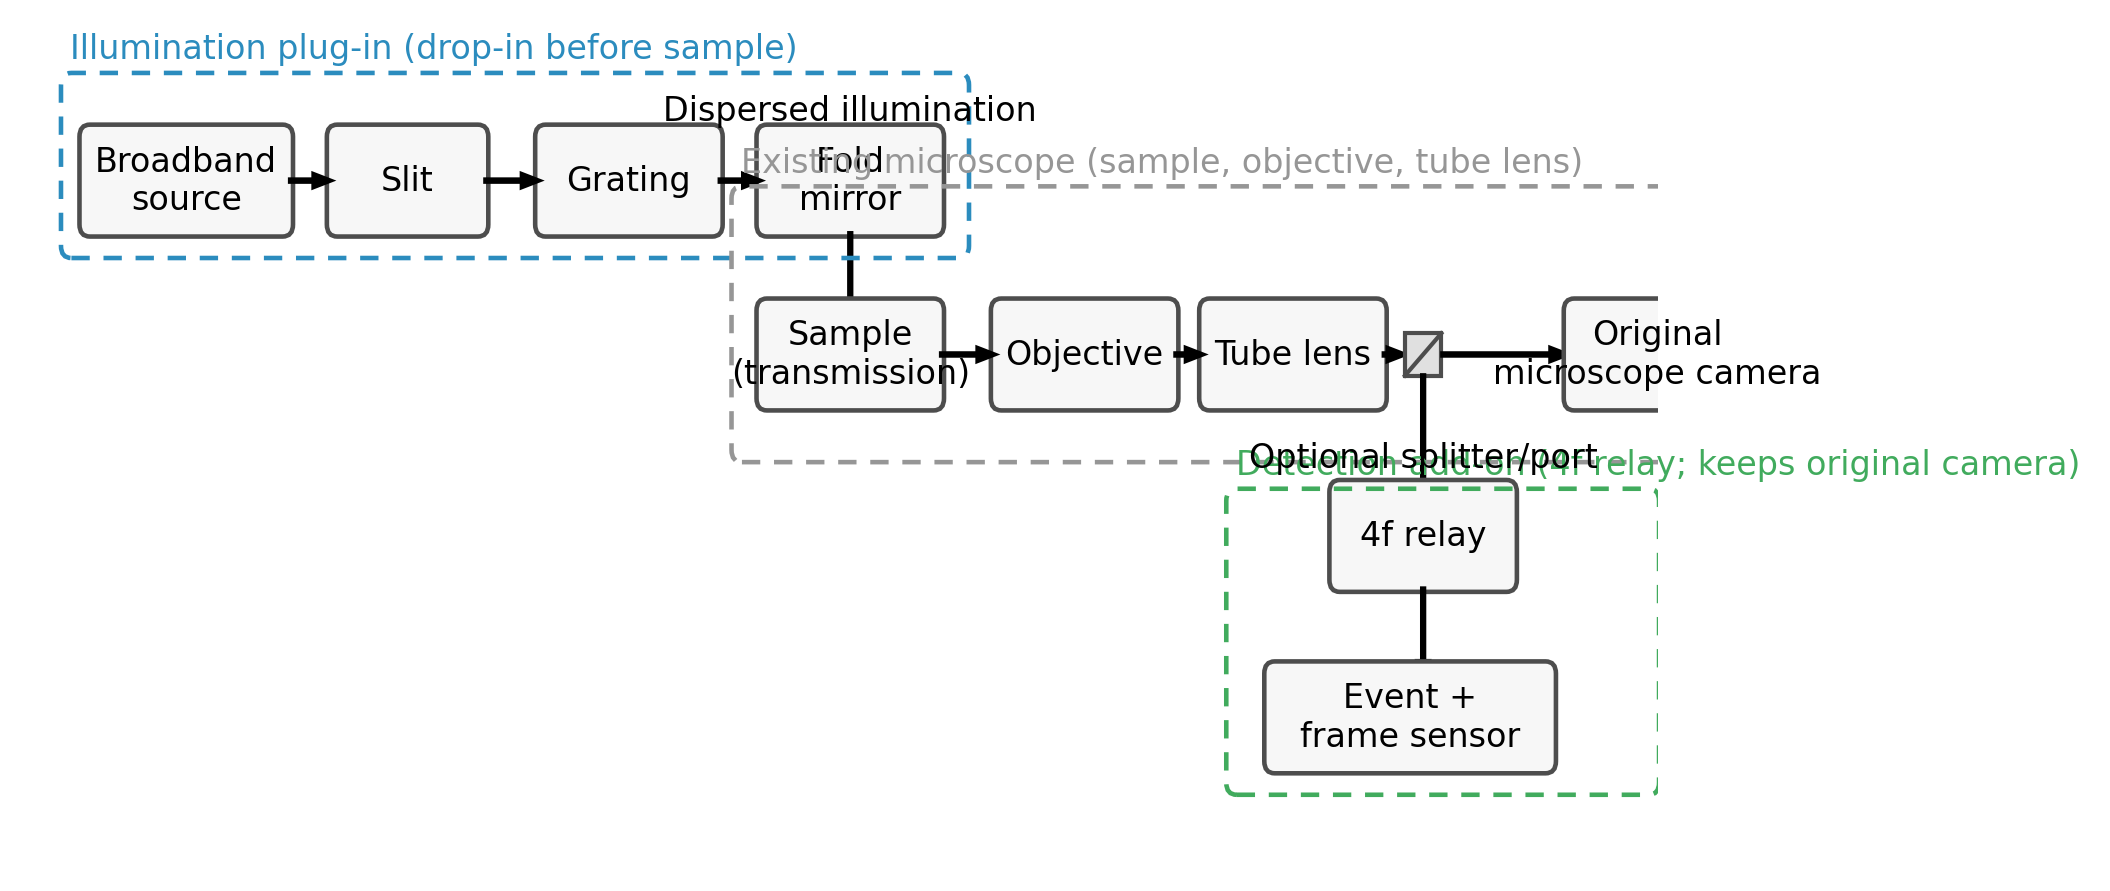
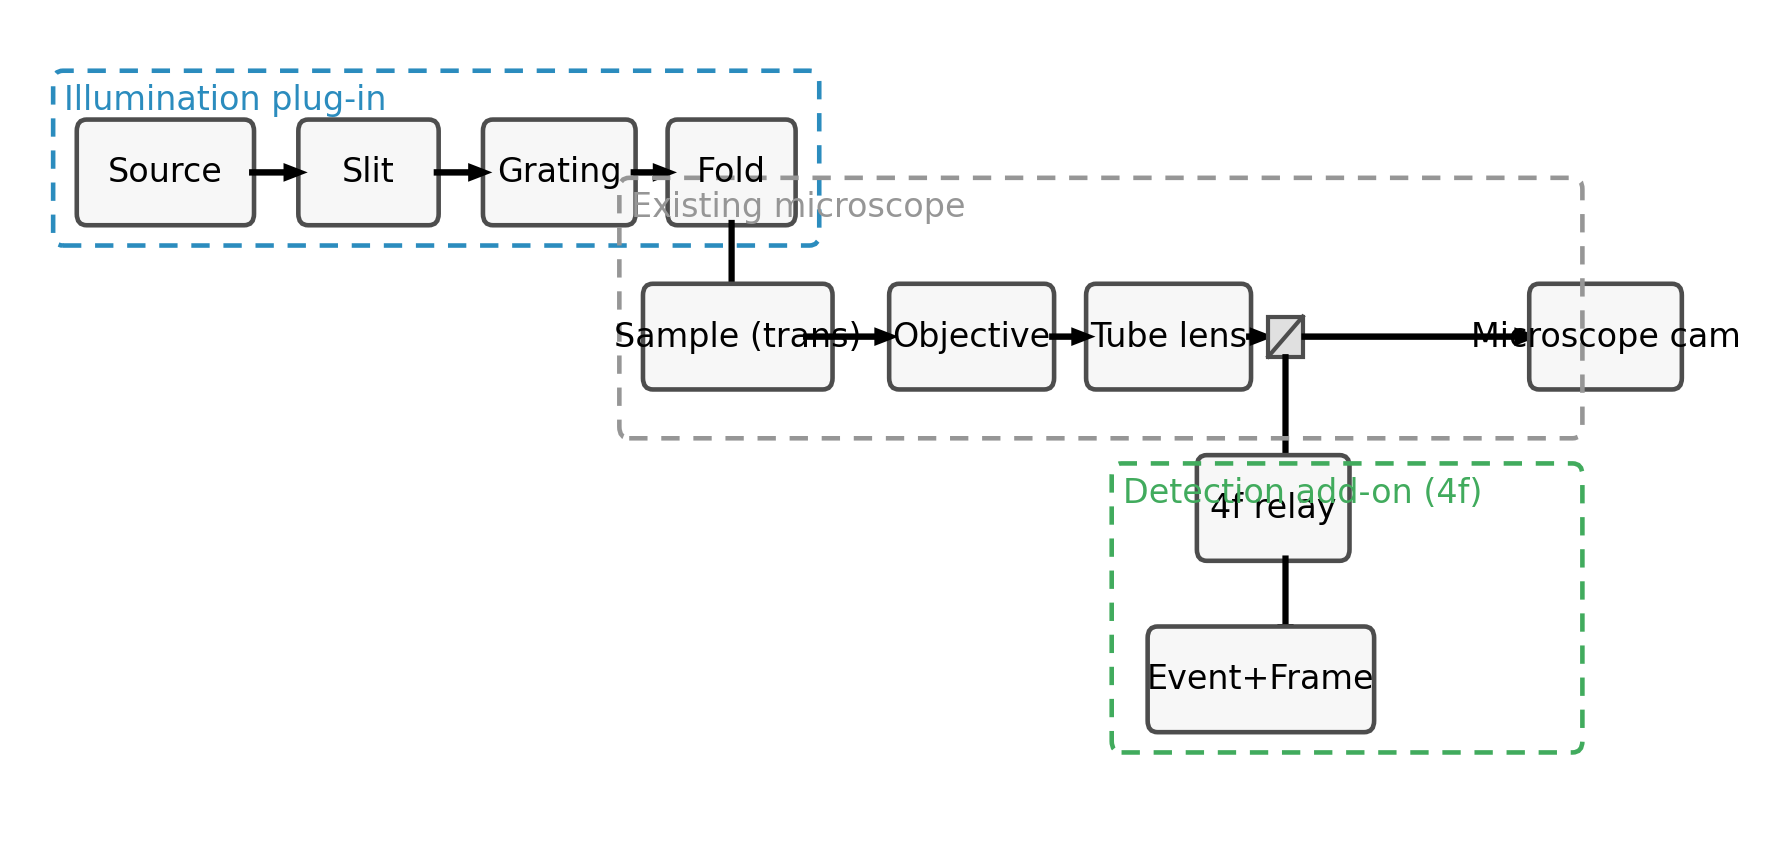
style(figure1): simplify labels, reposition elements, and move plug-in titles inside boxes to avoid overlap; widen canvas and bounds; regenerate PDF and recompile LaTeX

Changed region(s): [[0.0311, 0.0308, 0.9944, 0.8923], [0.435, 0.4923, 0.4972, 0.5231], [0.8701, 0.8615, 0.9011, 0.8923]]

diff --git a/publication_code/figure01_system_overview.py b/publication_code/figure01_system_overview.py
@@ -49,7 +49,8 @@ def add_plugin_box(ax, x, y, w, h, label, ec="#2b8cbe"):
                           linewidth=1.1, edgecolor=ec, facecolor="none",
                           linestyle=(0, (4, 3)))
     ax.add_patch(rect)
-    ax.text(x + 0.06, y + h + 0.06, label, fontsize=8, color=ec, ha="left", va="bottom")
+    # Place label inside top-left to avoid overlapping outside
+    ax.text(x + 0.08, y + h - 0.08, label, fontsize=8, color=ec, ha="left", va="top")
 
 
 def add_beamsplitter(ax, cx, cy, size=0.25, ec="#4d4d4d", fc="#e0e0e0"):
@@ -68,9 +69,9 @@ def render(out_path: Path) -> None:
         "axes.linewidth": 0.8,
     })
 
-    fig_w, fig_h = 7.0, 3.6  # inches (wider to avoid crowding)
+    fig_w, fig_h = 7.2, 3.4  # inches (wider to avoid crowding)
     fig, ax = plt.subplots(figsize=(fig_w, fig_h))
-    ax.set_xlim(0, 12.5)
+    ax.set_xlim(0, 13.6)
     ax.set_ylim(0, 5.5)
     ax.axis("off")
 
@@ -81,52 +82,50 @@ def render(out_path: Path) -> None:
     # Camera row: y = 0.8
 
     # Illumination chain (left to right)
-    src = add_block(ax, (0.4, 4.15), "Broadband\nsource", 1.6)
-    slit = add_block(ax, (2.3, 4.15), "Slit", 1.2)
-    grat = add_block(ax, (3.9, 4.15), "Grating", 1.4)
-    fold = add_block(ax, (5.6, 4.15), "Fold\nmirror", 1.4)
+    src = add_block(ax, (0.4, 4.15), "Source", 1.4)
+    slit = add_block(ax, (2.2, 4.15), "Slit", 1.1)
+    grat = add_block(ax, (3.7, 4.15), "Grating", 1.2)
+    fold = add_block(ax, (5.2, 4.15), "Fold", 1.0)
 
-    add_arrow(ax, 0.4 + 1.6, 4.5, 2.3, 4.5)
-    add_arrow(ax, 2.3 + 1.2, 4.5, 3.9, 4.5)
-    add_arrow(ax, 3.9 + 1.4, 4.5, 5.6, 4.5)
+    add_arrow(ax, 0.4 + 1.4, 4.5, 2.2, 4.5)
+    add_arrow(ax, 2.2 + 1.1, 4.5, 3.7, 4.5)
+    add_arrow(ax, 3.7 + 1.2, 4.5, 5.2, 4.5)
 
     # Into sample (down)
-    add_arrow(ax, 6.3, 4.15, 6.3, 3.4)
+    add_arrow(ax, 5.7, 4.15, 5.7, 3.4)
 
     # Sample and objective
-    samp = add_block(ax, (5.6, 3.0), "Sample\n(transmission)", 1.4)
-    obj = add_block(ax, (7.4, 3.0), "Objective", 1.4)
-    add_arrow(ax, 6.3 + 0.7, 3.35, 7.4, 3.35)
+    samp = add_block(ax, (5.0, 3.0), "Sample (trans)", 1.5)
+    obj = add_block(ax, (7.0, 3.0), "Objective", 1.3)
+    add_arrow(ax, 5.7 + 0.6, 3.35, 7.0, 3.35)
 
     # Tube lens and beamsplitter node
-    tube = add_block(ax, (9.0, 3.0), "Tube lens", 1.4)
-    add_arrow(ax, 7.4 + 1.4, 3.35, 9.0, 3.35)
+    tube = add_block(ax, (8.6, 3.0), "Tube lens", 1.3)
+    add_arrow(ax, 7.0 + 1.3, 3.35, 8.6, 3.35)
 
-    bs_cx, bs_cy = 10.7, 3.35
-    add_arrow(ax, 9.0 + 1.4, 3.35, bs_cx - 0.15, 3.35)
+    bs_cx, bs_cy = 10.2, 3.35
+    add_arrow(ax, 8.6 + 1.3, 3.35, bs_cx - 0.15, 3.35)
     add_beamsplitter(ax, bs_cx, bs_cy, size=0.28)
 
     # Branch 1: existing microscope camera (straight ahead)
-    add_arrow(ax, bs_cx + 0.15, 3.35, 11.8, 3.35)
-    add_block(ax, (11.8, 3.0), "Original\nmicroscope camera", 1.4)
+    add_arrow(ax, bs_cx + 0.15, 3.35, 12.2, 3.35)
+    add_block(ax, (12.2, 3.0), "Microscope cam", 1.2)
 
     # Branch 2: to 4f relay + event camera (downwards)
     add_arrow(ax, bs_cx, bs_cy - 0.14, bs_cx, 2.2)
-    relay = add_block(ax, (10.0, 1.8), "4f relay", 1.4)
-    add_arrow(ax, 10.7, 1.8, 10.7, 1.2)
-    evt = add_block(ax, (9.5, 0.6), "Event +\nframe sensor", 2.2)
+    relay = add_block(ax, (9.5, 1.8), "4f relay", 1.2)
+    add_arrow(ax, bs_cx, 1.8, bs_cx, 1.2)
+    evt = add_block(ax, (9.1, 0.6), "Event+Frame", 1.8)
 
     # Plugin boxes
     # Illumination plug-in around source->fold
-    add_plugin_box(ax, 0.25, 4.0, 6.95, 1.2, label="Illumination plug-in (drop-in before sample)")
+    add_plugin_box(ax, 0.2, 4.0, 6.2, 1.2, label="Illumination plug-in")
     # Detection add-on around relay->event
-    add_plugin_box(ax, 9.2, 0.45, 3.3, 2.0, label="Detection add-on (4f relay; keeps original camera)", ec="#41ab5d")
+    add_plugin_box(ax, 8.8, 0.45, 3.8, 2.0, label="Detection add-on (4f)", ec="#41ab5d")
     # Existing microscope frame around sample->tube lens (+ original camera)
-    add_plugin_box(ax, 5.4, 2.65, 8.0, 1.8, label="Existing microscope (sample, objective, tube lens)", ec="#969696")
+    add_plugin_box(ax, 4.8, 2.65, 7.8, 1.8, label="Existing microscope", ec="#969696")
 
-    # Small annotations
-    ax.text(6.3, 4.9, "Dispersed illumination", fontsize=8, ha="center")
-    ax.text(10.7, 2.6, "Optional splitter/port", fontsize=8, ha="center")
+    # Keep diagram clean: avoid extra annotations that can overlap
 
     out_path.parent.mkdir(parents=True, exist_ok=True)
     fig.savefig(out_path, dpi=400, bbox_inches="tight")
@@ -146,4 +145,3 @@ def main() -> None:
 
 if __name__ == "__main__":
     main()
-
